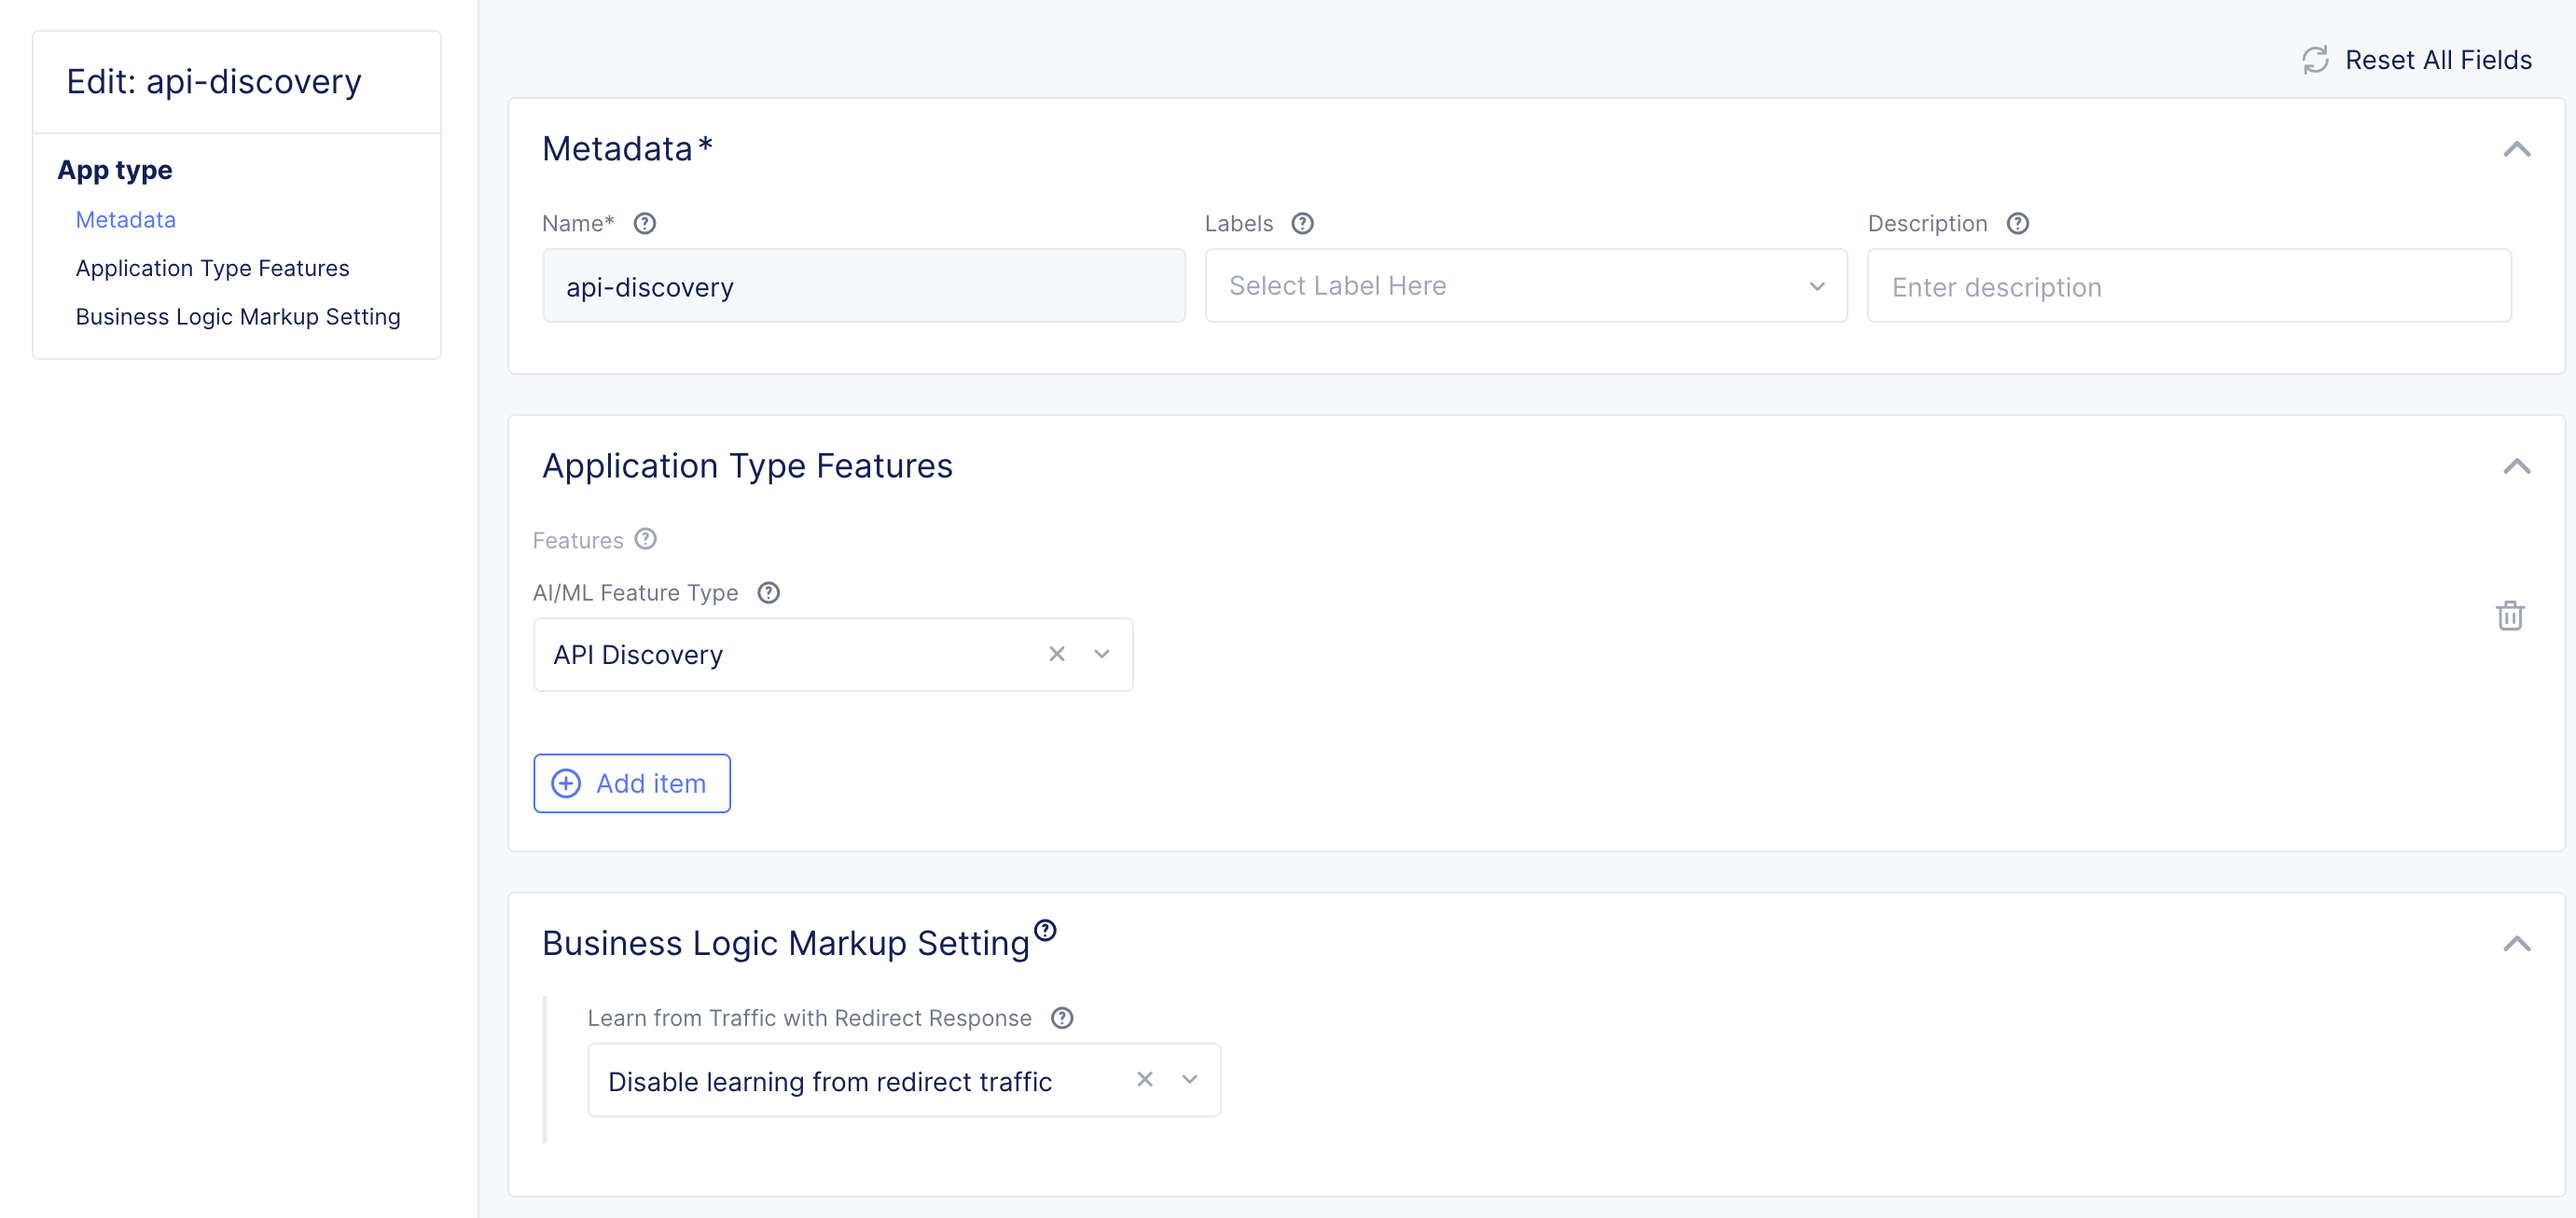
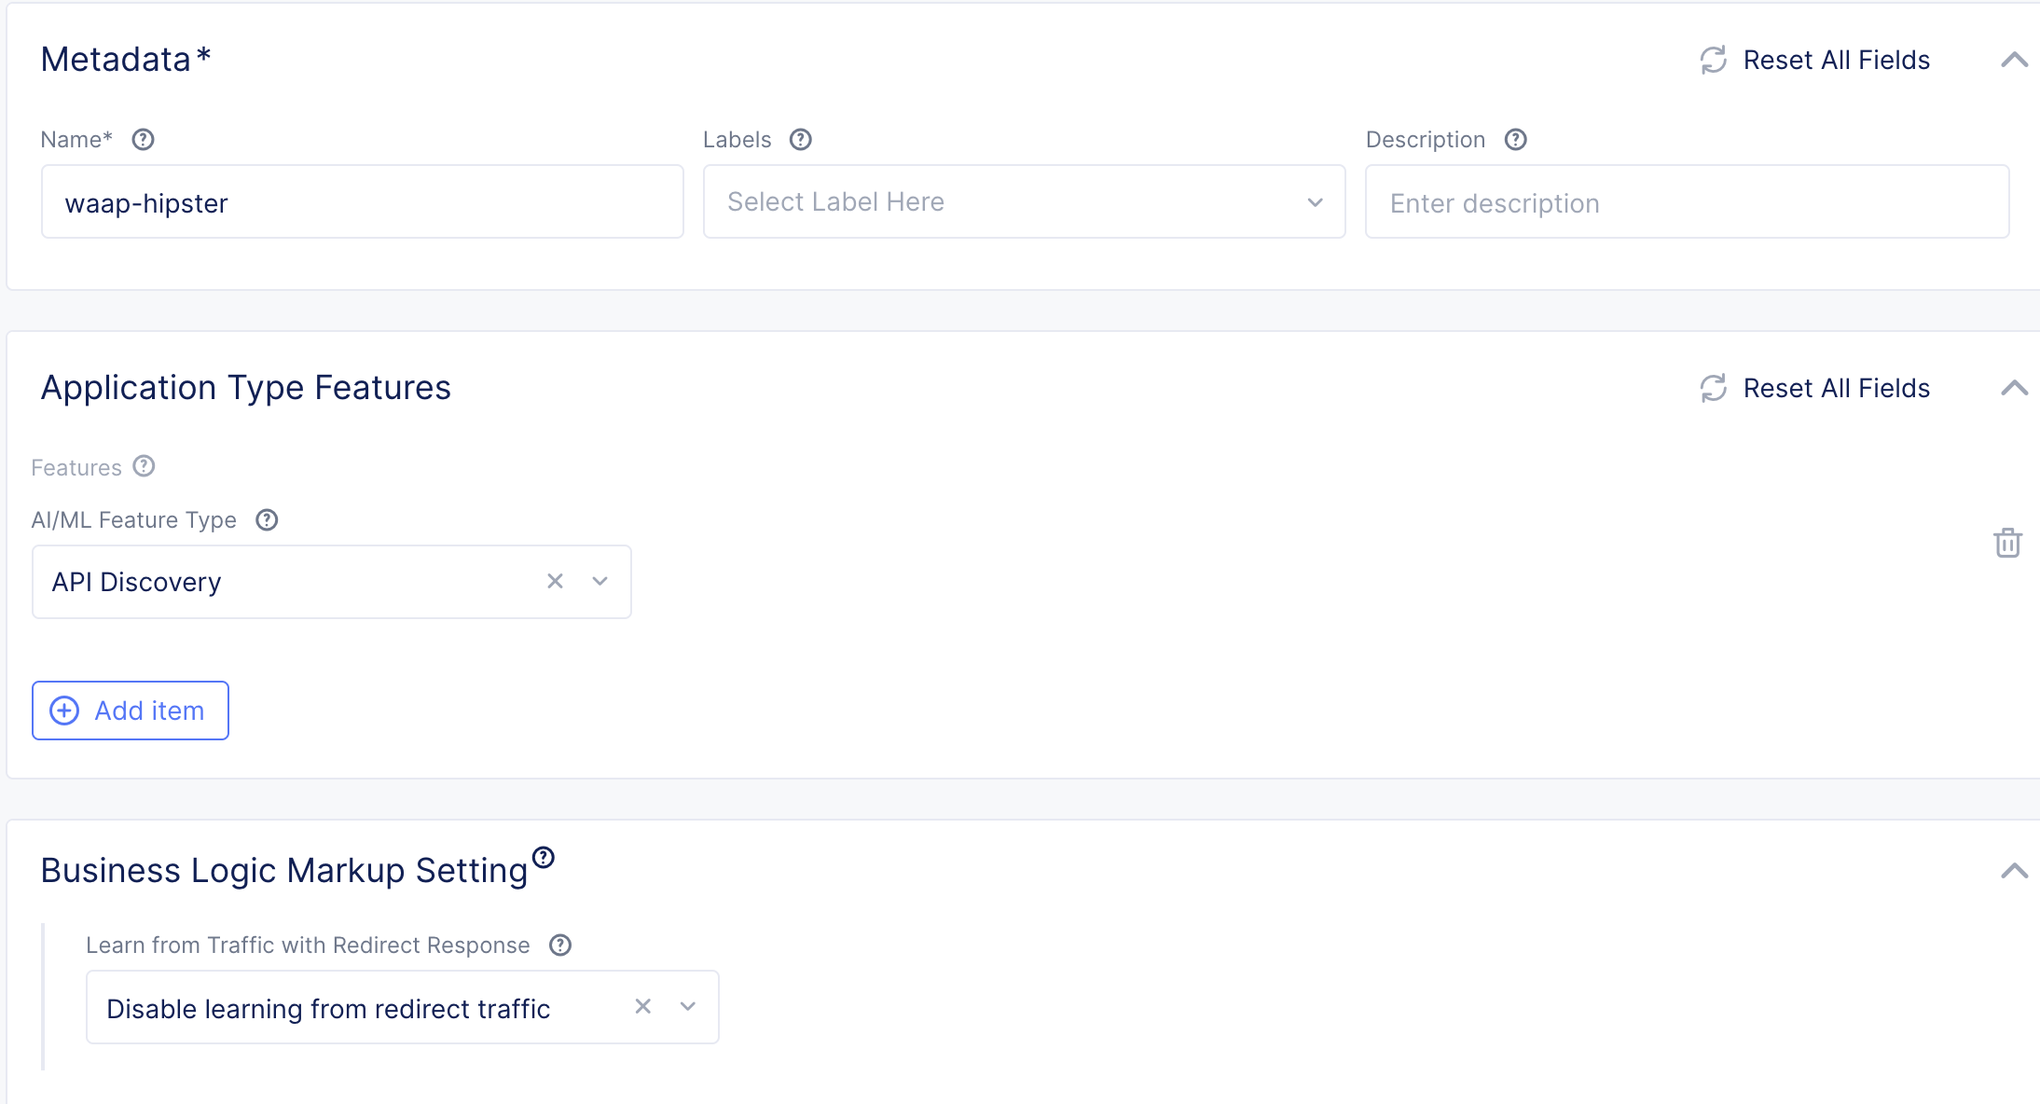
Add AL&ML

diff --git a/how_to_create_ai_ml.md b/how_to_create_ai_ml.md
@@ -1,0 +1,168 @@
+
+
+## AI & MLの作成
+
+AI & MLはメトリックやログを元にデータの可視化や振る舞い検知を行います。`app setting`で作成したオブジェクト名をHTTP Load balancerやKubernetes Serviceのラベルに `ves.io/app_type: name`として設定すると、自動で井にデータを収集して解析します。
+
+ここではGCPの[Microservices-demo](https://github.com/GoogleCloudPlatform/microservices-demo)でコールされるAPIを可視化するためにAI & ML の設定を行います。
+
+** テナントの契約内容によってはAI & MLが使用できなかったり、従量課金で別途請求される場合があります。
+
+
+## ハンズオンシナリオ
+
+このハンズオンでは１つのCEを使用します。
+
+手順
+
+1. Siteの立ち上げ
+1. Labelの設定
+1. Virtual siteの作成
+1. Virtual k8sの作成
+1. Kubernetes Manifestの作成
+1. API 可視化の設定
+1. 振る舞い検知の設定
+
+## Siteの立ち上げ
+
+`vm-site1`をESXi上に構築します。
+設定項目
+
+* Hostname: `vm-site1`
+* Certified hardware: `vmware-voltstack-combo`
+* Token: `テナントのToken`
+* Latitude, Longnitude: `任意の緯度経度`
+
+## Virtual siteの作成
+
+作成したSiteに`ce-type:waap`を設定します。
+
+![set-middle-label](./pics/set-middle-label.png)
+
+Virtual Siteを作成します。
+
+- name: `waap-site`
+- Site Type: `CE`
+- Site Selector Expression: `ce-type:waap`
+
+![set-all-re](./pics/set-all-re.png)
+
+## Virtual k8sの作成
+
+Virtual k8sを作成し、上記で作成したVirtual siteをセットします。
+
+Virtual siteを確認すると、選択された実際のSiteを確認できます。
+
+![selected-vsite-site](./pics/selected-vsite-site.png)
+
+## Kubernetes Manifestの作成
+
+vk8sのKubeconfigをダウンロードし、kubectlコマンドでKubenretes manifestを作成します。
+
+``` bash
+kubectl --kubeconfig ves_demo-japan_vk8s.yaml apply -f https://raw.githubusercontent.com/nakadaisuke/volterra-hands-on/master/yaml/hipstar.yaml
+```
+
+以下のようにすべてのManifestがCreatedになることを確認します。
+
+```bash
+deployment.apps/cartservice created
+deployment.apps/checkoutservice created
+deployment.apps/currencyservice created
+deployment.apps/emailservice created
+deployment.apps/frontend created
+deployment.apps/loadgenerator created
+deployment.apps/paymentservice created
+deployment.apps/productcatalogservice created
+deployment.apps/recommendationservice created
+deployment.apps/redis-cart created
+deployment.apps/shippingservice created
+service/cartservice created
+service/checkoutservice created
+service/currencyservice created
+service/emailservice created
+service/frontend created
+service/paymentservice created
+service/productcatalogservice created
+service/recommendationservice created
+service/redis-cart created
+service/shippingservice created
+```
+
+しばらくするとPodがRunningになります。
+
+```bash
+$ kubectl --kubeconfig ves_demo-japan_vk8s.yaml get po
+NAME                                     READY   STATUS    RESTARTS   AGE
+cartservice-5dd77589f6-ftfk9             2/2     Running   5          12m
+checkoutservice-78db96459c-26l69         2/2     Running   0          12m
+currencyservice-766f98cbfb-l2smv         2/2     Running   0          12m
+emailservice-599b497dc9-x7vw5            2/2     Running   0          12m
+frontend-c6bbf664d-d8sg6                 2/2     Running   0          12m
+loadgenerator-866fcdfd55-cjwqw           2/2     Running   5          12m
+paymentservice-bdc7f5649-j4fjh           2/2     Running   0          12m
+productcatalogservice-c4f5c879c-2shff    2/2     Running   0          12m
+recommendationservice-7856559c98-85v2g   2/2     Running   0          12m
+redis-cart-7c97d9c455-htjp6              2/2     Running   0          12m
+shippingservice-64f6696b4f-wpx9t         2/2     Running   0          12m
+
+$ kubectl --kubeconfig ves_demo-japan_vk8s.yaml get svc
+NAME                    TYPE        CLUSTER-IP        EXTERNAL-IP   PORT(S)     AGE
+cartservice             ClusterIP   192.168.97.210    <none>        7070/TCP    12m
+checkoutservice         ClusterIP   192.168.163.239   <none>        5050/TCP    12m
+currencyservice         ClusterIP   192.168.227.159   <none>        7000/TCP    12m
+emailservice            ClusterIP   192.168.148.18    <none>        5000/TCP    12m
+frontend                ClusterIP   192.168.43.27     <none>        80/TCP      12m
+paymentservice          ClusterIP   192.168.223.29    <none>        50051/TCP   12m
+productcatalogservice   ClusterIP   192.168.159.40    <none>        3550/TCP    12m
+recommendationservice   ClusterIP   192.168.83.25     <none>        8089/TCP    12m
+redis-cart              ClusterIP   192.168.168.87    <none>        6379/TCP    12m
+shippingservice         ClusterIP   192.168.160.233   <none>        50051/TCP   12m
+```
+
+## API可視化の設定
+
+最初に `Shared` Namespaceの `Security` > `AI & ML` > `App types` からAI/MLで解析するアプリケーションタイプを設定します。
+このシナリオではAPIの可視化を行うため、 `API Discovery`を設定します。
+
+- name: `waap-hipster`
+- AI/ML Feature Type: `API Discovery`
+
+![ai-ml-apptype-shared](./pics/ai-ml-apptype-shared.png)
+
+Kubernetes ServiceやHTTP LoadBalancerに、ここで作成したLabelを　`ves.io/app_type: waap-hipster` として設定するとMetricなどのデータを収集し、APIの可視化や振る舞い検知を行います。
+この設定ではAPIの可視化のみ行います。　設定後に学習を行うため、10-20分程度時間がかかります。
+
+Servie Meshから API Endpointsを開くとアプリケーションでコールされているAPIの一覧がグラフやテーブルリストとして表示されます。
+
+![ai-ml-api-graph](./pics/ai-ml-api-graph.png)
+
+## 振る舞い検知の設定
+
+振る舞い検知はShared namespaceのApp Typesに設定を追加し、User namespaceにてAL＆MLのソースとなるデータを設定するだけで簡単に動作します。
+
+Share namespaceのApp Typeでは以下のようなAnalysisを追加します。
+- Timeseries Analysis
+- Per API Request Analysis
+- User Behavior Analysis
+
+次にUser namespaceでAL＆MLの設定を行います。
+
+- Name: `anomaly`
+- AppType: `Shared/waap-hipster`
+- Timeseries Analysis Setting: 任意のMetrics Sources
+  - All Servides: Kubernetes ServiceのMetric
+  - All Service Interactions: すべてのサービスの送信元送信先のMetric
+  - All Viritual Hosts: Load BalancerのMetrics
+- Include namespace in lerning: `Enable learning from this namespace`
+
+![ai-ml-anomaly1](./pics/ai-ml-anomaly1.png)
+![ai-ml-anomaly2](./pics/ai-ml-anomaly2.png)
+
+学習には最低2-3時間必要です。学習されると、Service MeshのMetrics内に学習されたデータが半透明のグラフとなって表示されます。
+普段と違う振る舞い（エラーやAPIコール数の急減など）が発生すると、対象時間のグラフが赤色でマークされます。
+
+![ai-ml-anomaly3](./pics/ai-ml-anomaly3.png)
+
+
+

diff --git a/README.md b/README.md
@@ -20,6 +20,5 @@
 1. [vesctlの使用方法](<./how_to_use_vesctl.md>)
 1. [Siteの作成(Multi NIC/Managed K8s/GPUなど)](<./how_to_create_site.md>)
 1. [Site to Siteの暗号化トンネル通信](<./how_to_create_site_2_site.md>)
-1. Service policy/Network policyによる通信制御
-1. Forward proxyによるEgress 制御
 1. [Multi cluster Service MeshとService Mesh Graph](<./how_to_create_multi_cluster_sm.md>)
+1. [API可視化とふるまい検知](<./how_to_create_ai_ml.md>)

diff --git a/how_to_create_multi_cluster_sm.md b/how_to_create_multi_cluster_sm.md
@@ -41,7 +41,7 @@ Virtual-site
 設定項目
 
 * Hostname: `vm-site1`または`vm-site2`
-* Certified hardware: `vmware-regular-nic-voltmesh`
+* Certified hardware: `vmware-voltstack-combo`
 * Token: `テナントのToken`
 * Latitude, Longnitude: `任意の緯度経度`
 
